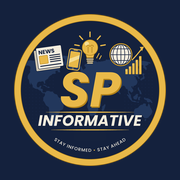
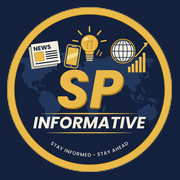
ॲप आयकॉन: लोगो पूर्ण भरणारे maskable आयकॉन, नवे फाइल नाव
Claude-Session: https://claude.ai/code/session_01R5BqFTsbTMXvRMaahM7AxT

diff --git a/sw.js b/sw.js
@@ -1,5 +1,5 @@
-const CACHE = 'spf-shell-v5';
-const SHELL = ['./', 'index.html', 'manifest.webmanifest', 'icon-192.png', 'icon-512.png', 'apple-touch-icon.png', 'logo.webp'];
+const CACHE = 'spf-shell-v6';
+const SHELL = ['./', 'index.html', 'manifest.webmanifest', 'icon-any-192.png', 'icon-any-512.png', 'icon-mask-192.png', 'icon-mask-512.png', 'apple-touch-icon.png', 'logo.webp'];
 
 self.addEventListener('install', e => {
   e.waitUntil(caches.open(CACHE).then(c => c.addAll(SHELL)).then(() => self.skipWaiting()));

diff --git a/index.html b/index.html
@@ -11,7 +11,7 @@
 <meta name="apple-mobile-web-app-title" content="SP Followers">
 <link rel="manifest" href="manifest.webmanifest">
 <link rel="apple-touch-icon" href="apple-touch-icon.png">
-<link rel="icon" href="icon-192.png">
+<link rel="icon" href="icon-any-192.png">
 <title>SP Followers</title>
 <link rel="preconnect" href="https://fonts.googleapis.com">
 <link href="https://fonts.googleapis.com/css2?family=Hind:wght@400;500;600&family=Poppins:wght@500;600;700&display=swap" rel="stylesheet">
